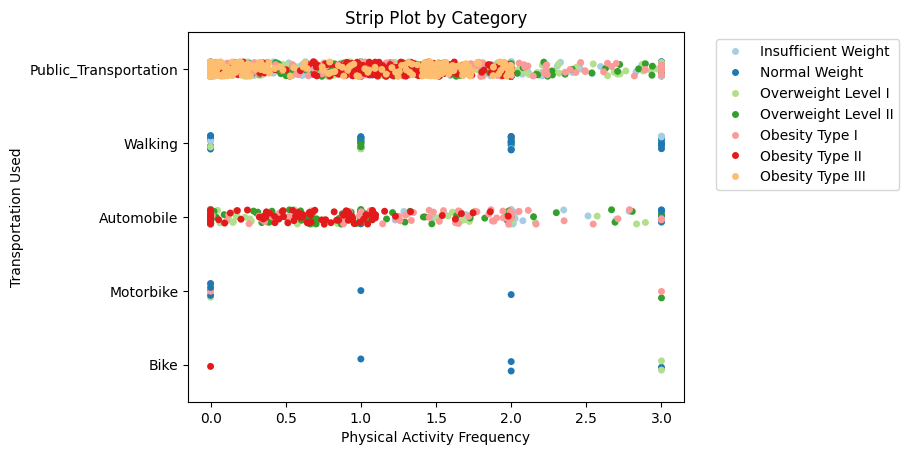
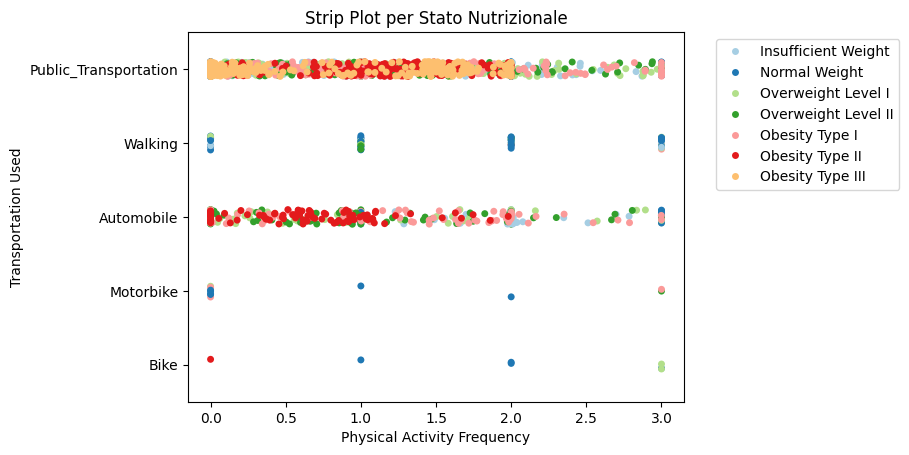
grafici

diff --git a/analisi_descrittiva.py b/analisi_descrittiva.py
@@ -121,17 +121,7 @@ def plot_scatterplot():
     plt.ylabel("Height")
     plt.legend(labels)
     plt.savefig('grafici/Scatter Plot', bbox_inches='tight')
-
     plt.show()
-
-
-weight_height()
-BMI()
-pie_chart()
-violin_chart()
-plot_scatterplot()
-plot_correlation_matrix(obesity_no_index)
-
 
 def strip_plot(df):
     df['Nutritional Status'] =\
@@ -148,7 +138,7 @@ def strip_plot(df):
                   palette=colors)
     plt.xlabel('Physical Activity Frequency')
     plt.ylabel('Transportation Used')
-    plt.title('Strip Plot by Category')
+    plt.title('Strip Plot per Stato Nutrizionale')
     plt.legend(bbox_to_anchor=(1.05, 1.0), loc='upper left')
     plt.savefig('grafici/Strip Plot', bbox_inches='tight')
     plt.show()
@@ -156,7 +146,8 @@ def strip_plot(df):
 
 #weight_height()
 #BMI()
+#violin_chart()
 #pie_chart()
 #plot_correlation_matrix(obesity_no_index)
-#scatter_with_regression(obesity)
-strip_plot(obesity)
+#strip_plot(obesity)
+plot_scatterplot()
